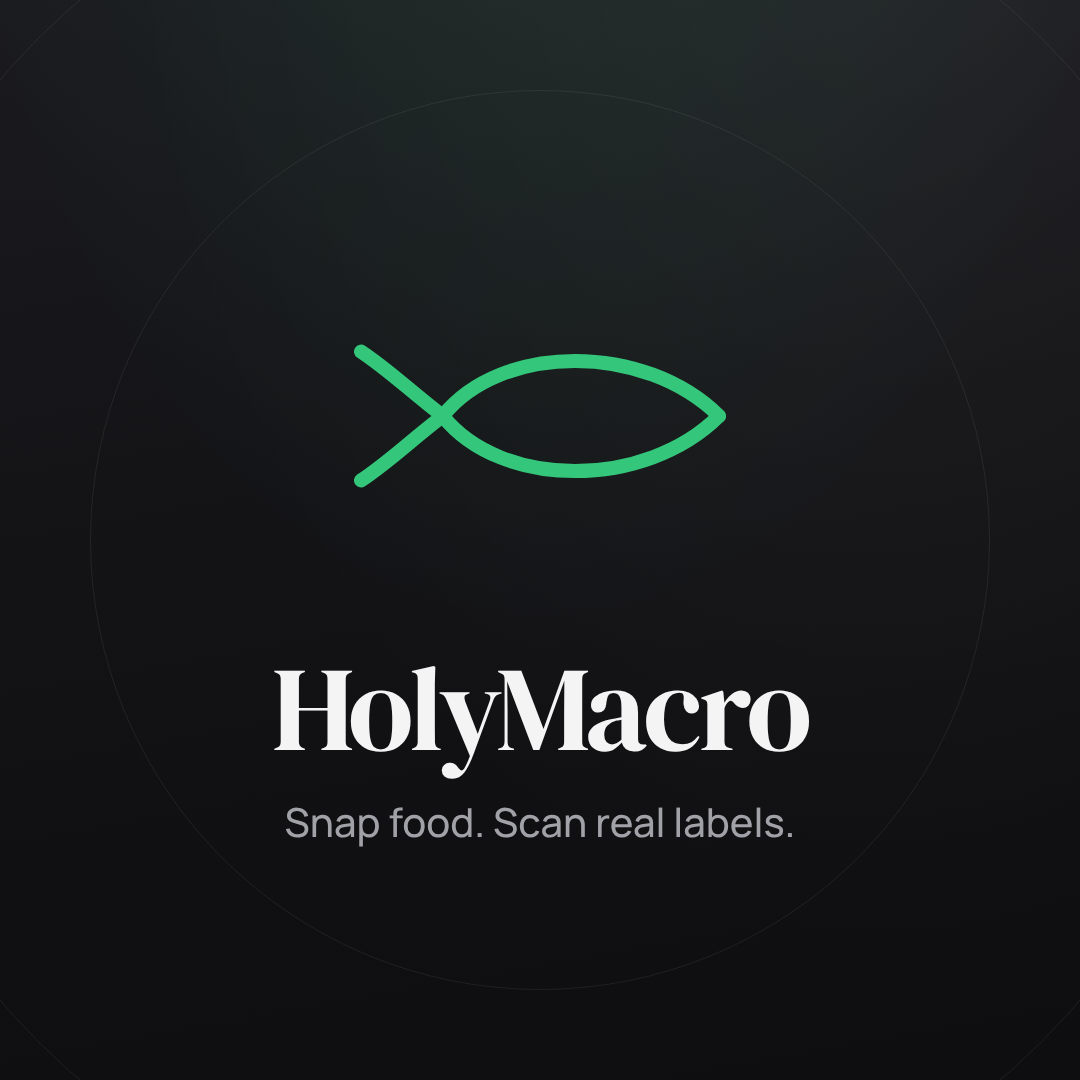
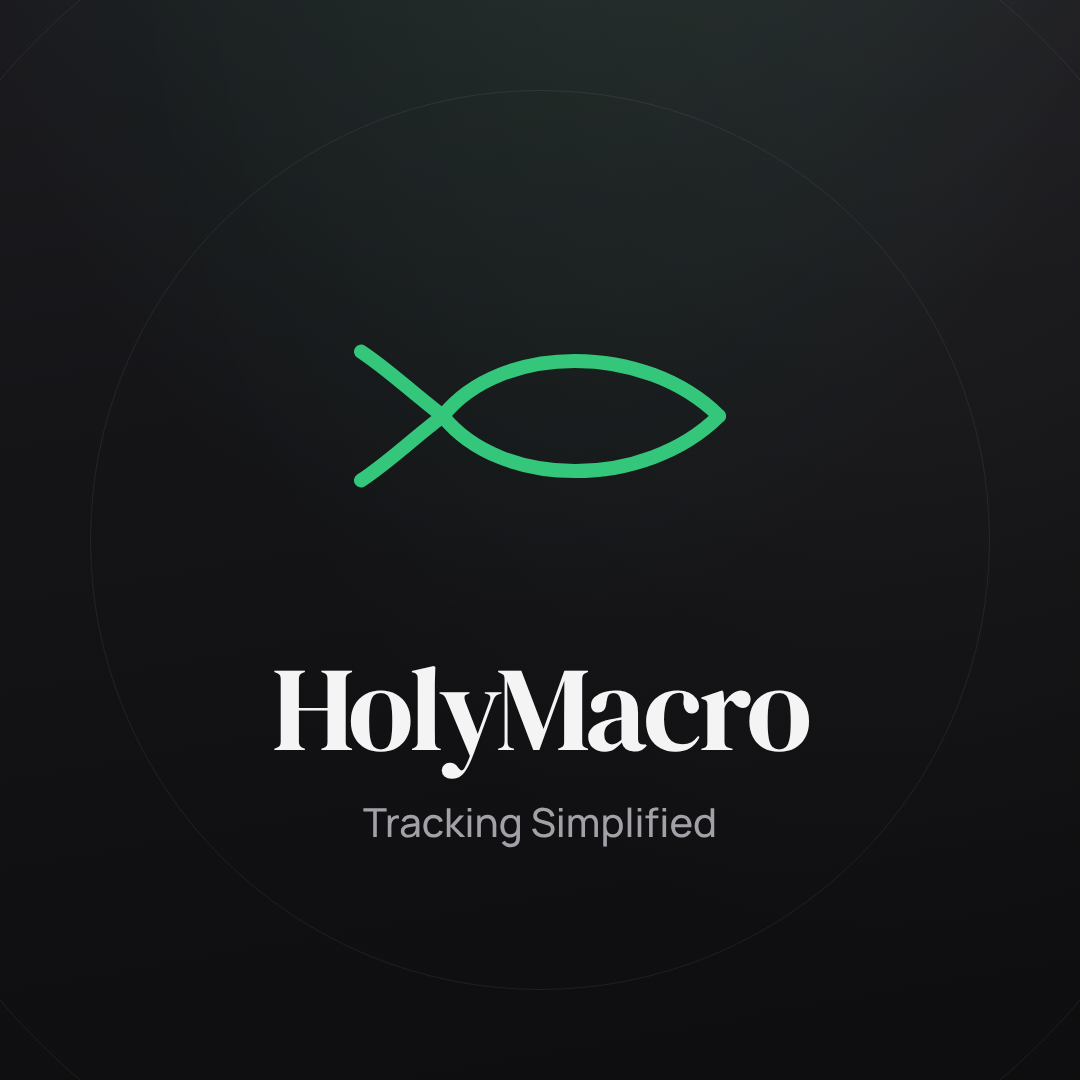
Tagline: "Tracking Simplified"
Changed in all three places the old line lived, not just on the artwork:
promo.py draws it, app-store-listing.md is the copy that gets pasted into
App Store Connect, and PRODUCT.md records it as a brand commitment. Changing
one would have left the artwork and the listing saying different things.

Recorded the trade in the listing rather than quietly dropping it: "Snap
food. Scan real labels." carried three search terms in the field the App
Store weights most for search, and set up the barcode complaint the
label-scan screenshot pays off. "Tracking Simplified" is a brand line and
reads cleaner. The capture claims still appear in the first screenshot's
headline and in the description, so they leave the subtitle, not the page.

19 of 30 characters. Artwork re-rendered at all three crops.

Claude-Session: https://claude.ai/code/session_01G1DZr8XqKT6mEYjTtyiqnR

Changed region(s): [[0.275, 0.7333, 0.7333, 0.7944]]

diff --git a/MacroTracker/marketing/appstore/promo.py b/MacroTracker/marketing/appstore/promo.py
@@ -42,9 +42,10 @@ _spec.loader.exec_module(mark)
 BG, TEXT, MUTED = "#0E0E10", "#F4F4F5", "#A1A1A8"
 PRIMARY = "#34C77B"
 
-# App Store Connect subtitle, from PRODUCT.md. Not a new claim.
+# The App Store subtitle, from PRODUCT.md, so the artwork and the listing
+# say the same thing. Not a claim written for the artwork.
 NAME = "HolyMacro"
-SUBTITLE = "Snap food. Scan real labels."
+SUBTITLE = "Tracking Simplified"
 
 MASTER = (4320, 1080)
 # The crops Apple cuts this down to. Each is taken from the centre, which is

diff --git a/MacroTracker/marketing/app-store-listing.md b/MacroTracker/marketing/app-store-listing.md
@@ -23,14 +23,18 @@ The name field carries the most ASO weight of any field, and "HolyMacro" alone
 is a brand nobody is searching for yet. The suffix buys the head term without
 making the name read like a keyword dump.
 
-## Subtitle — 28 / 30
+## Subtitle — 19 / 30
 
 ```
-Snap food. Scan real labels.
+Tracking Simplified
 ```
 
-"real" is doing the work: it sets up the barcode-database complaint that the
-second screenshot pays off.
+A brand line rather than a keyword line. The previous subtitle, "Snap food.
+Scan real labels.", carried three search terms and set up the barcode
+complaint the label-scan screenshot pays off; this trades that reach for a
+cleaner read. The capture claims still appear in the first screenshot's
+headline and in the description, so they are not lost from the page — only
+from the one field the App Store weights most heavily for search.
 
 ## Promotional text — 161 / 170
 

diff --git a/MacroTracker/PRODUCT.md b/MacroTracker/PRODUCT.md
@@ -93,7 +93,7 @@ Constraints:
 ## Brand Commitments
 
 - Name **HolyMacro**; App Store name `HolyMacro: Macro Tracker`, subtitle
-  `Snap food. Scan real labels.`
+  `Tracking Simplified`
 - The app mark is an **ichthys** outline, shipping across iOS, Android, the
   watch and the widget. The name and mark carry a deliberate faith reference;
   it is an identity element, not a feature, and the app contains no religious
